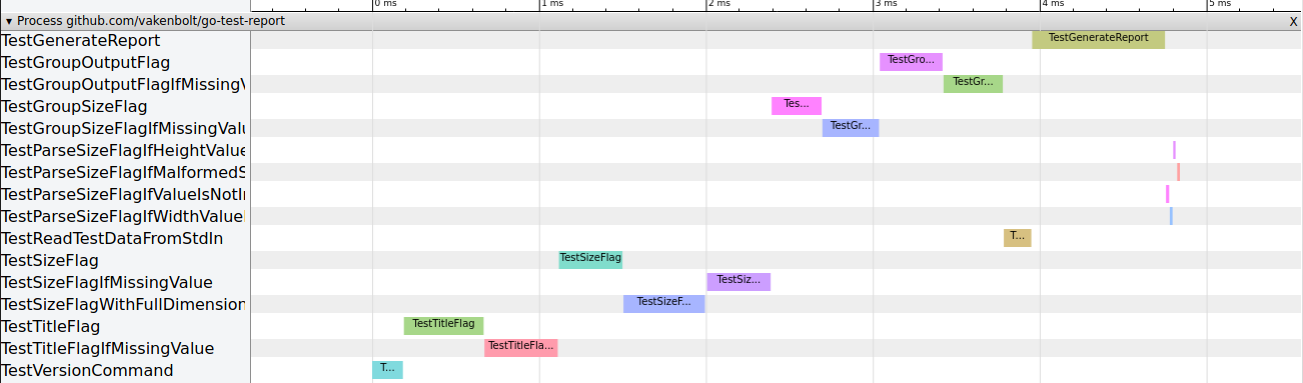
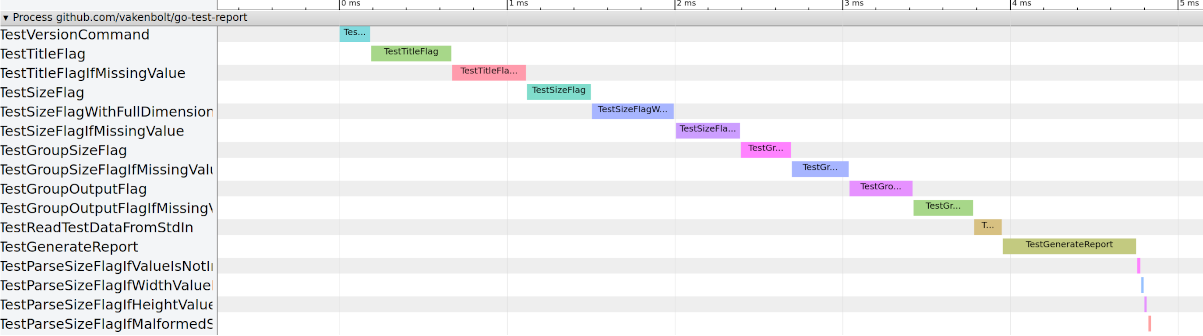
Sort the test cases by start time first

diff --git a/main.go b/main.go
@@ -98,6 +98,9 @@ func main() {
 	events := []traceevent{}
 	for p, tests := range pkg {
 		sort.Strings(tests)
+                sort.SliceStable(tests, func(i, j int) bool {
+			return start[tests[i]].Before(*start[tests[j]])
+		})
 		for _, test := range tests {
 			res := result[test]
 			if res == "" {

diff --git a/README.md b/README.md
@@ -8,6 +8,9 @@ Example from github.com/vakenbolt/go-test-report:
 
 ![test trace](test_trace.png)
 
+Example:
+[test report.json](test_report.json)
+
 ### Trace Format
 
 The Trace Event Format is the trace data representation that is processed by the Trace Viewer application.
